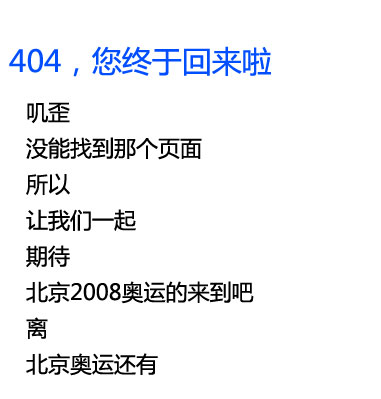
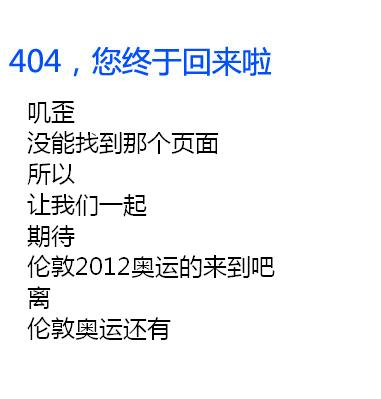
save

Changed region(s): [[0.0577, 0.2406, 0.7218, 0.9624], [0.231, 0.1203, 0.7218, 0.2105], [0.0289, 0.1203, 0.1732, 0.1805]]

diff --git a/class/JWTemplate.class.php b/class/JWTemplate.class.php
@@ -140,7 +140,6 @@ _HTML_;
 		 *	强制不使用自定义界面，设置为 false 即可
 		 */
 		$ui_css = '';
-		$options['ui_user_id']=false;
 		if ( false!==$options['ui_user_id'] && !empty($options['ui_user_id']) )
 		{
 			$ui = new JWDesign($options['ui_user_id']);
@@ -261,7 +260,7 @@ _HTML_;
 				'/' => '首页',
 				//'http://beta.jiwai.de/g/' => '逛逛',
 				'/public_timeline/' => '逛逛',
-				'/t/地震/' => '地震',
+				'/t/神七/' => '神七',
 				'/wo/account/create' => '注册',
 				'/wo/login' => '登录',
 				'http://help.jiwai.de/' => '帮助'
@@ -272,7 +271,7 @@ _HTML_;
 			$nav = array(
 				'/wo/' => '首页',
 				$a => $b,
-				'/t/地震/' => '地震',
+				'/t/神七/' => '神七',
 				'/public_timeline/' => '逛逛',
 				'/wo/gadget/' => '窗可贴',
 				'/t/帮助留言板/' => '留言板',
@@ -284,7 +283,7 @@ _HTML_;
 				'/wo/' => '首页',
 				//'http://beta.jiwai.de/g/' => '逛逛',
 				'/public_timeline/' => '逛逛',
-				'/t/地震/' => '地震',
+				'/t/神七/' => '神七',
 				'/wo/account/create' => '注册',
 				'http://help.jiwai.de/' => '帮助',
 			);
@@ -368,7 +367,7 @@ _HTML_;
 <?php foreach ($nav as $url => $txt) { ?>
 		<li>
 			<div class="line1"></div>
-			<div class="nav" style="background-color:#cccccc;"><a href="<?php echo substr($url,0,1)=='/' ? JW_SRVNAME.$url : $url; ?>" <?php echo ($highlight==$url) ? 'class="active" style="background-color:#cccccc;"' : ''; if($highlight!=$url && '地震'==$txt) echo " style='background-color:#999999;'"?>><?php echo $txt; ?></a></div>
+			<div class="nav"><a href="<?php echo substr($url,0,1)=='/' ? JW_SRVNAME.$url : $url; ?>" <?php echo ($highlight==$url) ? 'class="active"' : ''; if($highlight!=$url && '神七'==$txt) echo " style='background-color:#FFCC00;'"?>><?php echo $txt; ?></a></div>
 		</li>
 <?php } ?>
 		</ul>
@@ -492,7 +491,7 @@ _HTML_;
 		<li><a href="<? echo JW_SRVNAME;?>/wo/about/partner" target="_blank">友情链接</a></li>
 	</ul>
 	<ul>
-		<li><a href="http://www.miibeian.gov.cn" target="_blank">京ICP备07024804号</a></li>
+		<li><a href="http://www.miibeian.gov.cn" target="_blank">京ICP证020015号</a></li>
 	</ul>
 </div>
 
@@ -597,11 +596,11 @@ _HTML_;
 				<p>
                     <input type="hidden" id="idUserReplyTo" name="idUserReplyTo"/>
                     <input type="hidden" id="idStatusReplyTo" name="idStatusReplyTo"/>
-					<textarea name="jw_status" rows="3" id="jw_status" onkeydown="if(this.value.length>0 && ((event.ctrlKey && event.keyCode == 13) || (event.altKey && event.keyCode == 83))){JWAction.updateStatus(); return false;}" onkeyup="updateStatusTextCharCounter(this.value)" onblur="updateStatusTextCharCounter(this.value)" value=""></textarea>
+					<textarea name="jw_status" wrap="hard" rows="3" id="jw_status" onkeydown="if(this.value.length>0 && ((event.ctrlKey && event.keyCode == 13) || (event.altKey && event.keyCode == 83))){JWAction.updateStatus(); return false;}" onkeyup="updateStatusTextCharCounter(this.value)" onblur="updateStatusTextCharCounter(this.value)" value=""></textarea>
 				</p>
 				<p class="act">
 					<span class="ctrlenter">Ctrl+Enter直接叽歪</span>
-					<input style="margin-left:115px;filter:gray()" type="button" class="submitbutton" onclick="if($('jw_status').value.length>0){return JWAction.updateStatus();}else{$('jw_status').focus();}" value="叽歪一下" title="叽歪一下"/>
+					<input style="margin-left:115px;" type="button" class="submitbutton" onclick="if($('jw_status').value.length>0){return JWAction.updateStatus();}else{$('jw_status').focus();}" value="叽歪一下" title="叽歪一下"/>
 				</p>	
 			<?php
 				if(false == empty($options['sendtips']))
@@ -672,10 +671,13 @@ _TAB_;
 
 			/* custom menu */
 			if('joke'===$menu) {
-				echo "<a href = '$url' style='color:#0000FF;' class='active'>$name</a>";continue;
+				echo "<a target='_blank' href = '$url' style='color:#0000FF;' class='active'>$name</a>";continue;
+			}
+			if('shuiping'===$menu) {
+				echo "<a target='_blank' href = '$url' style='color:#0000FF;' class='active'>$name</a>";continue;
 			}
 			if('contribute'===$menu) {
-				echo "<a href = '$url' style='color:#FF0000;' class='active'>$name</a>";continue;
+				echo "<a target='_blank' href = '$url' style='color:#FF0000;' class='active'>$name</a>";continue;
 			}
 			/* custom menu end */
 
@@ -743,7 +745,7 @@ _TAB_;
 
 		if ( null == $status )
 		{
-			$status_id = $statusRow['idStatus'];
+			$status_id = $statusRow['id'];
 			$status_type = $statusRow['statusType'];
 			$status = $statusRow['status'];
 			$timeCreate = $statusRow['timeCreate'];
@@ -911,6 +913,7 @@ _HTML_;
 
 		if( $options['protected'] ) return;
 
+		$statusIds = array_diff($statusIds, array(null));
 		$is_favourited_array = JWFavourite::IsFavourited($current_user_id, $statusIds);
 
 		$current_user_id = JWUser::GetCurrentUserInfo('id');
@@ -1616,10 +1619,14 @@ _HTML_;
 
 
 	function sidebar_invite() {
+	$current_user_info = JWUser::GetCurrentUserInfo();
 ?>
 		<div class="featured" id="invite" style="line-height:30px;">
 			<p><a href="/wo/invitations/invite">邀请好友加入叽歪网</a></p>
 		</div>
+<div style="padding:0 10px;">
+<form target="_blank" action="http://www.mytshirt.cn/tool/tools_followme.html" method="POST"><input type="hidden" name="userid" value="<?php echo $current_user_info['nameScreen'];?>"><input type="hidden" name="apihash" value="jiwaimytshirt"><input type="submit" class="submitbutton" value="制作我的个性T恤"></form>
+</div>
 
 <?php
 	}
@@ -1648,11 +1655,26 @@ _HTML_;
 					        echo '&nbsp;<div class="sidebar" style="margin-top:-3px;"><a target="_blank" href="/asus2008/"><img src="'.$src.'" title="'.$alt.'" alt="'.$alt.'".></img></a></div>';
 		}
 
+    function sidebar_xcmlm()
+	    {    
+					echo "<span style='clear:both;font-size:16px;line-height:24px;font-weight:bold;align:center;'>叽歪网鼎力支持新媒体节</span>";
+			        $src = JWTemplate::GetAssetUrl('/images/jiwai_xcmlm.jpg');
+					$alt = "[叽歪网]中国国际新媒体节";
+					        echo '&nbsp;<div class="sidebar" style="margin-top:-3px;"><a target="_blank" href="http://www.xcmlm.com/"><img src="'.$src.'" title="'.$alt.'" alt="'.$alt.'".></img></a></div>';
+		}
+
+    function sidebar_maxtv()
+	    {    
+			        $src = JWTemplate::GetAssetUrl('/images/jiwai_maxtv.gif');
+					$alt = "[叽歪网]迈视网";
+					        echo '&nbsp;<div class="sidebar" style="margin-top:-3px;"><a target="_blank" href="http://news.maxtv.cn/file1/200884/644661.shtml"><img src="'.$src.'" title="'.$alt.'" alt="'.$alt.'".></img></a></div>';
+		}
+
     function sidebar_ichina()
 	    {    
 			        $src = JWTemplate::GetAssetUrl('/images/jiwai_ichina.gif');
 					$alt = "[叽歪网]爱中国行动";
-					        echo '&nbsp;<div class="sidebar" style="margin-top:-3px;"><a target="_blank" href="/t/爱中国/"><img src="'.$src.'" title="'.$alt.'" alt="'.$alt.'".></img></a></div>';
+					        echo '&nbsp;<div class="sidebar" style="margin-top:-3px;"><a target="_blank" href="/t/神七/"><img src="'.$src.'" title="'.$alt.'" alt="'.$alt.'".></img></a></div>';
 		}
 
     function sidebar_tqybad()
@@ -1770,8 +1792,10 @@ if ($menuList[0][0] == 'login') {
 	</div><!-- sidediv -->
 <? if('public_timeline'==$pageName)
 {
-self::sidebar_asus();
-self::sidebar_tqybad();
+//self::sidebar_xcmlm();
+//self::sidebar_maxtv();
+//self::sidebar_asus();
+//self::sidebar_tqybad();
 }
 ?>	
 </div><!-- sidebar -->
@@ -2263,11 +2287,11 @@ _HTML_;
 ?>
 
 			接收通知方式：
-			<ul class="droplist" onmouseover="this.className='droplistopen'" onmouseout="this.className='droplist'" style="filter:gray();">
-				<li class="slect" onmouseover="style.backgroundColor='#F97B00';" onmouseout="style.backgroundColor='#F97B00'" style="filter:gray();"><?php echo $viaDevName; ?></li>
+			<ul class="droplist" onmouseover="this.className='droplistopen'" onmouseout="this.className='droplist'">
+				<li class="slect" onmouseover="style.backgroundColor='#F97B00';" onmouseout="style.backgroundColor='#F97B00'"><?php echo $viaDevName; ?></li>
 <?php
 		foreach ($otherDev as $d => $n) if ($d!='facebook') echo <<<__HTML__
-				<li onmouseover="style.backgroundColor='#FF8D1D';" onmouseout="style.backgroundColor='#F97B00'" onclick="JiWai.ChangeDevice('$d');" style="filter:gray();">$n</li>
+				<li onmouseover="style.backgroundColor='#FF8D1D';" onmouseout="style.backgroundColor='#F97B00'" onclick="JiWai.ChangeDevice('$d');">$n</li>
 
 __HTML__;
 ?>

diff --git a/webroot/wo/about/partner.php b/webroot/wo/about/partner.php
@@ -54,8 +54,14 @@
         <ul>
          <li><a href="http://www.feedsky.com" title="feedsky" target="_blank"><img align="midddle" alt="feedsky" src="<? echo JWTemplate::GetAssetUrl('/images/fei14.jpg');?>" /></a></li>
          <li><a href="http://www.mycaifu.com" title="my财富" target="_blank"><img align="midddle" alt="my财富" src="<? echo JWTemplate::GetAssetUrl('/images/mycaifu.gif');?>" /></a></li>
-		 <li></li>
-		 <li></li>
+         <li><a href="http://maxtv.cn" title="迈视传媒" target="_blank"><img align="midddle" alt="迈视传媒" src="<? echo JWTemplate::GetAssetUrl('/images/flink/maxtv153x79.jpg');?>" /></a></li>
+         <li ><a href="http://www.xcmlm.com" title="新媒体产业联盟" target="_blank"><img style="width:79px;" align="midddle" alt="新媒体产业联盟" src="<? echo JWTemplate::GetAssetUrl('/images/flink/xcmlm79x79.jpg');?>" /></a></li>
+		 </ul>
+		 <ul>
+         <li><a href="http://www.51fayan.com/" title="中国发言人网" target="_blank"><img align="midddle" alt="中国发言人网" src="<? echo JWTemplate::GetAssetUrl('/images/flink/51fayan.jpg');?>" /></a></li>
+         <li><a href="http://www.cctn.info/" title="中国商务新闻网" target="_blank"><img align="midddle" alt="中国商务新闻网" src="<? echo JWTemplate::GetAssetUrl('/images/flink/shangwu.jpg');?>" /></a></li>
+         <li></li>
+         <li></li>
        </ul>
        
         <p style="float:left;width:100%;text-align:right;margin-top:13px;font-size:1.2em;color:#545454">合作伙伴排名不分先后</p>
@@ -72,6 +78,10 @@
 	<a href="http://www.fundodo.com" title="粉嘟嘟" target="_blank"><img width="88" height="31" src="<? echo JWTemplate::GetAssetUrl('/images/fundodo8831.gif');?>" alt="粉嘟嘟"></a>
 	<a href="http://www.inezha.com" title="哪吒网" target="_blank"><img width="88" height="31" src="<? echo JWTemplate::GetAssetUrl('/images/inezha8831.gif');?>" alt="哪吒网"></a>
 	<a href="http://ow.blog.sohu.com/" title="搜狐博客开放平台" target="_blank"><img width="88" height="31" src="<? echo JWTemplate::GetAssetUrl('/images/sohublog8831.jpg');?>" alt="搜狐博客开放平台"></a>
+	<a href="http://www.kaluu.com/" title="开路网" target="_blank"><img width="88" height="31" src="<? echo JWTemplate::GetAssetUrl('/images/flink/kaluu8831.gif');?>" alt="开路网"></a>
+	<a href="http://www.dvod.com.cn/ " title="新世界网" target="_blank"><img width="88" height="31" src="<? echo JWTemplate::GetAssetUrl('/images/flink/dvod8831.gif');?>" alt="新视界网"></a>
+	<a href="http://gocom.primeton.com/" title="构客网" target="_blank"><img width="88" height="31" src="<? echo JWTemplate::GetAssetUrl('/images/flink/gocom8831.gif');?>" alt="构客网"></a>
+	<a href="http://h863.com/" title="健康863" target="_blank"><img width="88" height="31" src="<? echo JWTemplate::GetAssetUrl('/images/flink/h8638831.gif');?>" alt="健康863"></a>
 	<p style="float:left;width:100%;text-align:right;margin-top:13px;font-size:1.2em;color:#545454">友情链接排名不分先后</p>
 	 </div>
  </div>

diff --git a/webroot/wo/error/404.php b/webroot/wo/error/404.php
@@ -101,14 +101,39 @@ margin: 10px;
     <td><img src="http://asset.jiwai.de/images/org-404-right.jpg" width="381" height="399"></td>
   </tr>
   <tr>
-    <td class="countDown"><?php echo getTimeDiff(time(), strtotime('2008/8/8 20:00:00')); ?></td>
+    <td class="countDown"><?php echo getTimeDiff(time(), strtotime('2012/7/27 12:00:00')); ?></td>
   </tr>
     <tr align="center" >
     <td style="text-align:right; padding-right:25px; "><a href="<?php echo $url;?>">&lt;&lt; 从东土大唐来</a></td>
     <td style="text-align:left; padding-left:25px; "><a href="http://jiwai.de/">到西天取经去 &gt;&gt; </a></td>
   </tr>
+  <tr>
+  <style type="text/css">
+#goog-wm {
+  padding: 1em;
+  border: 3px solid #ff6600;
+  background-color: white;
+}
+#goog-wm h3#closest-match {
+  color: #8f2831;
+  border-bottom: 3px dashed #ff6600;
+  padding-bottom: 0.5em;;
+  font-size: 170%;
+  margin: 0;
+}
+#goog-wm h3#closest-match a { }
+#goog-wm h3#other-things { color: #8f2831; }
+#goog-wm ul li { }
+#goog-wm li.search-goog { display: block; }
+  </style>
+  <script type="text/javascript">
+  var GOOG_FIXURL_LANG = 'zh_CN';
+  var GOOG_FIXURL_SITE = 'http://jiwai.de/';
+  </script>
+  <script type="text/javascript" 
+  src="http://linkhelp.clients.google.com/tbproxy/lh/wm/fixurl.js"></script>
+  </tr>
 </table>
-
 
 </div><!-- #container -->
 

diff --git a/webroot/index.php b/webroot/index.php
@@ -147,7 +147,7 @@ swfobject.embedSWF("<?php echo $src;?>", "<?echo $swf_name;?>", "<? echo $focus_
 		</div>
 		<div id="search">
 		<?php $search_tips = "名字，Email，QQ号码，MSN帐号等";?>
-						<form id="f2" target="_blank" name="f2" method="get" action="<?php echo JW_SRVNAME . "/wo/search/users";?>" onsubmit="if($('search_user').value=='<?php echo $search_tips;?>')$('search_user').value='';">
+						<form id="f2" target="_blank" name="f2" method="get" action="<?php echo JW_SRVNAME . "/wo/search/users";?>" onsubmit="if($('search_user').value=='<?php echo $search_tips;?>') {alert('请输入查找内容');return false;}">
 		    <p align="center"><input type="text" id="search_user" class="searchBox1" onblur="this.className=this.className.replace(/\bfocus\b/,'');if(this.value=='')this.value='<?php echo $search_tips;?>';" onfocus="this.className+=' focus';if(this.value=='<?php echo $search_tips;?>')this.value=''" value="<?php echo $search_tips;?>" name="q"/>
 		    <p><input type="submit" class="submitbutton" value="寻找好友" />
 

diff --git a/webroot/wo/account/regok2.php b/webroot/wo/account/regok2.php
@@ -44,13 +44,16 @@ $picture_url_row = JWPicture::GetUrlRowByIds($picture_ids);
 <div class="lookfriend">
        <div class="binding">
 	   <p>一切就绪了，不知道从哪里开始吗？你可以</p>
-	   <p><a href="<?php echo JW_SRVNAME;?>/wo/">&gt;&gt; 马上开始叽歪</a></p>
-	   <p><a href="<?php echo JW_SRVNAME;?>/public_timeline/">&gt;&gt; 随便逛逛</a></p>
+	   <p><a href="http://beta.jiwai.de/wo/">&gt;&gt; 马上开始叽歪</a></p>
+	   <p><a href="http://beta.jiwai.de/g/">&gt;&gt; 随便逛逛</a></p>
 	   <p><b>或者，看看他们在叽歪什么</b></p>
 	   <div id="wtRegok"><!-- wtFollow start -->
         <div class="follow">
 	<ul class="followlist">
 <?php
+	   /*<p><a href="<?php echo JW_SRVNAME;?>/wo/">&gt;&gt; 马上开始叽歪</a></p>
+	   <p><a href="<?php echo JW_SRVNAME;?>/public_timeline/">&gt;&gt; 随便逛逛</a></p>
+	   */
 foreach( $friend_ids as $list_user_id )
 {
     $list_user_row = $friend_user_rows[$list_user_id];

diff --git a/webroot/user/wo.inc.php b/webroot/user/wo.inc.php
@@ -220,19 +220,39 @@ $menu_list = array (
 		'url' => "/$page_user_info[nameUrl]/",
 	),
 );
+
 if(34459 == $page_user_id)//冷笑话
+{
+	$menu_list['shuiping'] = array(
+		'active' => false,
+		'name' => "水瓶座",
+		'url' => "/t/%E6%B0%B4%E7%93%B6%E5%BA%A7/",
+	);
 	$menu_list['contribute'] = array(
 		'active' => false,
 		'name' => "投稿",
 		'url' => "/t/冷笑话/",
 	);
-if(32834 == $page_user_id)//冷笑话
 	$menu_list['joke'] = array(
 		'active' => false,
 		'name' => "笑话",
-		'url' => "/t/笑话/",
+		'url' => "/t/%E7%AC%91%E8%AF%9D/",
 	);
+}
 
+if(32834 == $page_user_id)//汪强
+{
+	$menu_list['joke'] = array(
+		'active' => false,
+		'name' => "笑话",
+		'url' => "/t/%E7%AC%91%E8%AF%9D/",
+	);
+	$menu_list['shuiping'] = array(
+		'active' => false,
+		'name' => "水瓶座",
+		'url' => "/t/%E6%B0%B4%E7%93%B6%E5%BA%A7/",
+	);
+}
 if( null!==$q ){
 	$menu_list['search'] = array(	
 		'active' => false , 

diff --git a/webroot/t/channel_help_sidebar.php b/webroot/t/channel_help_sidebar.php
@@ -4,6 +4,7 @@
 <div class="linkHelpMessager"><a href="/wo/feedback/" onClick="return JWAction.redirect(this);"><img src="<?php echo JWTemplate::GetAssetUrl('/images/feedback/feedback_10.jpg');?>" border="0"/></a></div>
 <DIV class=sidehelpdiv>是否要问以下的问题呢？</DIV>
 <UL class=helpinfo>
+	<LI style="font-weight:bold;color:#FF0000;">手机绑定和接收目前不正常<BR></LI>
 	<LI><A href="http://help.jiwai.de/Faq" target=_blank>常见问题集合(FAQ)</A><BR></LI>
 	<LI><A href="http://help.jiwai.de/MobileFAQ" target=_blank>手机常见问题</A></LI>
 	<LI><A href="http://help.jiwai.de/IMFAQ" target=_blank>QQ、MSN、Gtalk常见问题</A></LI>

diff --git a/webroot/wo/about/group.php b/webroot/wo/about/group.php
@@ -55,8 +55,8 @@
        </ul>
 	   </div>
      <div class="groupmen">
-	 <? $user_ids = array(20, 89, 863, 2802, 32834, 37222, 37340, 43000, 42998, 94479);
-	 $user_namescreens = array('zixia', 'freewizard', 'seek', 'lecause', 'wanghw', 'wqsemc', 'paopaoyu', '沈浅浅', 'Uranus-shi', 'rannie', 'xleoman');
+	 <? $user_ids = array(20, 89, 863, 2802, 32834, 37222, 37340, 43000, 42998, 94479, 135898);
+	 $user_namescreens = array('zixia', 'freewizard', 'seek', 'lecause', 'wanghw', 'wqsemc', 'paopaoyu', '沈浅浅', 'Uranus-shi', 'rannie', 'xleoman', 'winnie');
 	 foreach($user_ids as $user_id)
 	 {
 		$user_info = JWDB_Cache_User::GetDbRowById( $user_id );

diff --git a/domain/manage/stock/meeting.php b/domain/manage/stock/meeting.php
@@ -128,7 +128,7 @@ if( !empty( $conference ) )
 					<br/>
 					<input <?php if ( null!==$conference_id ) echo ' checked="checked" ';?> id="enable_conference" name="enableConference" type="checkbox" value="Y" style="width:24px; display:inline;" /><label for="enable_conference">启动会议模式</label>
 					<p> 使用方法：<br/>
-						1、手机编辑短信，发送到 106693184-40-<?php echo $stock_num; ?>  , 
+						1、手机编辑短信，发送到 1066808866-40-<?php echo $stock_num; ?>  , 
 						<br/>
 						2、发消息时增加 "[<?php echo $tag_info['name'];  ?>]"
 					</p>

diff --git a/webroot/t/index.php b/webroot/t/index.php
@@ -60,8 +60,12 @@ switch ( $func )
 		break;
 
 	case 'channel':
-		if ( 26559 == $tag_row['id']) 
-			require_once(dirname(__FILE__) . "/channel.inc.dizhen.php");
+		if ( 57612== $tag_row['id']) 
+			require_once(dirname(__FILE__) . "/channel.inc.shenqi.php");
+		else if ( 21784== $tag_row['id']) 
+			require_once(dirname(__FILE__) . "/channel.inc.aoyun.php");
+		else if ( 26559== $tag_row['id'] )
+			require_once(dirname(__FILE__) . "/channel.inc.dongzai.php");
 		else if ( 9259 == $tag_row['id'] )
 			require_once(dirname(__FILE__) . "/channel.inc.dongzai.php");
 		else
